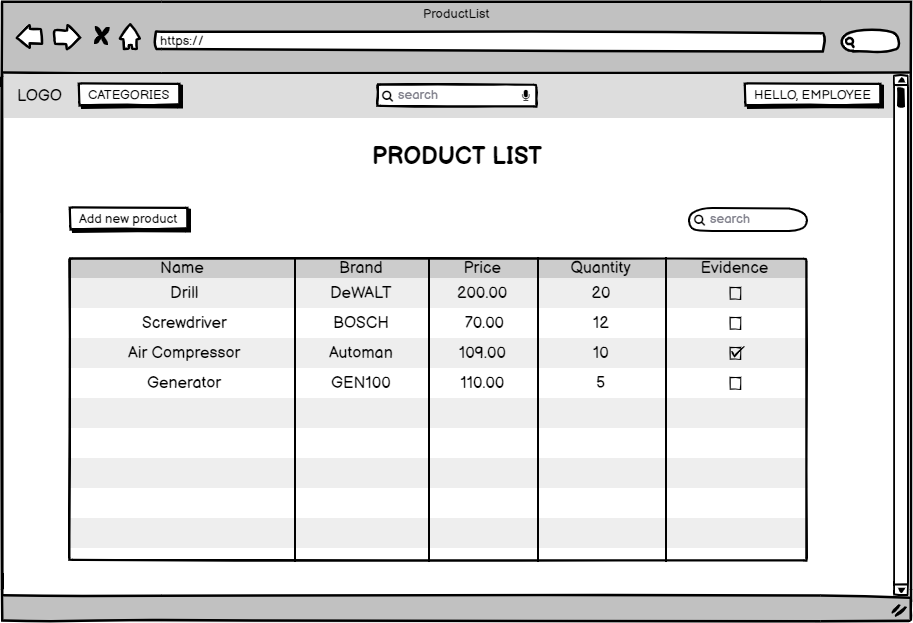
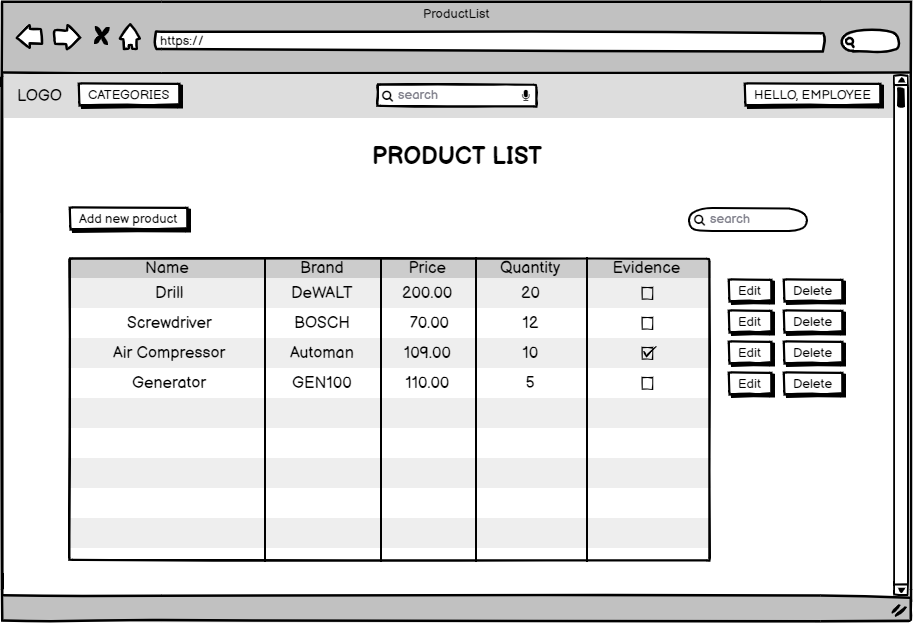
added some mockups and updated the report

diff --git a/Homework1/sections/PresentationLogicLayer.tex b/Homework1/sections/PresentationLogicLayer.tex
@@ -4,10 +4,51 @@
 
 Lorem ipsum dolor sit amet, consectetur adipiscing elit, sed do eiusmod tempor incididunt ut labore et dolore magna aliqua. Ut enim ad minim veniam, quis nostrud exercitation ullamco laboris nisi ut aliquip ex ea commodo consequat. Duis aute irure dolor in reprehenderit in voluptate velit esse cillum dolore eu fugiat nulla pariatur. Excepteur sint occaecat cupidatat non proident, sunt in culpa qui officia deserunt mollit anim id est laborum.
 
-\subsection{A page}
+\subsection{Homepage}
 
 %For the main pages put a mockup and describe it in detail.
 
-\includegraphics[]{mockup.pdf}
+\includegraphics[width=\textwidth,height=\textheight,keepaspectratio]{mockups/homepageMockup.png}
 
 Lorem ipsum dolor sit amet, consectetur adipiscing elit, sed do eiusmod tempor incididunt ut labore et dolore magna aliqua. Ut enim ad minim veniam, quis nostrud exercitation ullamco laboris nisi ut aliquip ex ea commodo consequat. Duis aute irure dolor in reprehenderit in voluptate velit esse cillum dolore eu fugiat nulla pariatur. Excepteur sint occaecat cupidatat non proident, sunt in culpa qui officia deserunt mollit anim id est laborum.
+
+\subsection{Product page}
+
+%For the main pages put a mockup and describe it in detail.
+
+\includegraphics[width=\textwidth,height=\textheight,keepaspectratio]{mockups/productPageMockup.png}
+
+Lorem ipsum dolor sit amet, consectetur adipiscing elit, sed do eiusmod tempor incididunt ut labore et dolore magna aliqua. Ut enim ad minim veniam, quis nostrud exercitation ullamco laboris nisi ut aliquip ex ea commodo consequat. Duis aute irure dolor in reprehenderit in voluptate velit esse cillum dolore eu fugiat nulla pariatur. Excepteur sint occaecat cupidatat non proident, sunt in culpa qui officia deserunt mollit anim id est laborum.
+
+
+\subsection{UserEdit page}
+
+
+\includegraphics[width=\textwidth,height=\textheight,keepaspectratio]{mockups/userEditPageMockup.png}
+
+Lorem ipsum dolor sit amet, consectetur adipiscing elit, sed do eiusmod tempor incididunt ut labore et dolore magna aliqua. Ut enim ad minim veniam, quis nostrud exercitation ullamco laboris nisi ut aliquip ex ea commodo consequat. Duis aute irure dolor in reprehenderit in voluptate velit esse cillum dolore eu fugiat nulla pariatur. Excepteur sint occaecat cupidatat non proident, sunt in culpa qui officia deserunt mollit anim id est laborum.
+
+\subsection{OrderList and OrderDetails}
+
+%For the main pages put a mockup and describe it in detail.
+\includegraphics[width=\textwidth,height=\textheight,keepaspectratio]{mockups/ordersPageMockup.png}
+
+Lorem ipsum dolor sit amet, consectetur adipiscing elit, sed do eiusmod tempor incididunt ut labore et dolore magna aliqua. Ut enim ad minim veniam, quis nostrud exercitation ullamco laboris nisi ut aliquip ex ea commodo consequat. Duis aute irure dolor in reprehenderit in voluptate velit esse cillum dolore eu fugiat nulla pariatur. Excepteur sint occaecat cupidatat non proident, sunt in culpa qui officia deserunt mollit anim id est laborum.
+
+\subsection{Admin: product management}
+
+%For the main pages put a mockup and describe it in detail.
+
+\includegraphics[width=\textwidth,height=\textheight,keepaspectratio]{mockups/productListPageMockup.png}
+\includegraphics[width=\textwidth,height=\textheight,keepaspectratio]{mockups/addProductPageMockup.png}
+
+Lorem ipsum dolor sit amet, consectetur adipiscing elit, sed do eiusmod tempor incididunt ut labore et dolore magna aliqua. Ut enim ad minim veniam, quis nostrud exercitation ullamco laboris nisi ut aliquip ex ea commodo consequat. Duis aute irure dolor in reprehenderit in voluptate velit esse cillum dolore eu fugiat nulla pariatur. Excepteur sint occaecat cupidatat non proident, sunt in culpa qui officia deserunt mollit anim id est laborum.
+\subsection{Admin: user management}
+
+%For the main pages put a mockup and describe it in detail.
+
+\includegraphics[width=\textwidth,height=\textheight,keepaspectratio]{mockups/usersListPageMockup.png}
+
+
+Lorem ipsum dolor sit amet, consectetur adipiscing elit, sed do eiusmod tempor incididunt ut labore et dolore magna aliqua. Ut enim ad minim veniam, quis nostrud exercitation ullamco laboris nisi ut aliquip ex ea commodo consequat. Duis aute irure dolor in reprehenderit in voluptate velit esse cillum dolore eu fugiat nulla pariatur. Excepteur sint occaecat cupidatat non proident, sunt in culpa qui officia deserunt mollit anim id est laborum.
+
